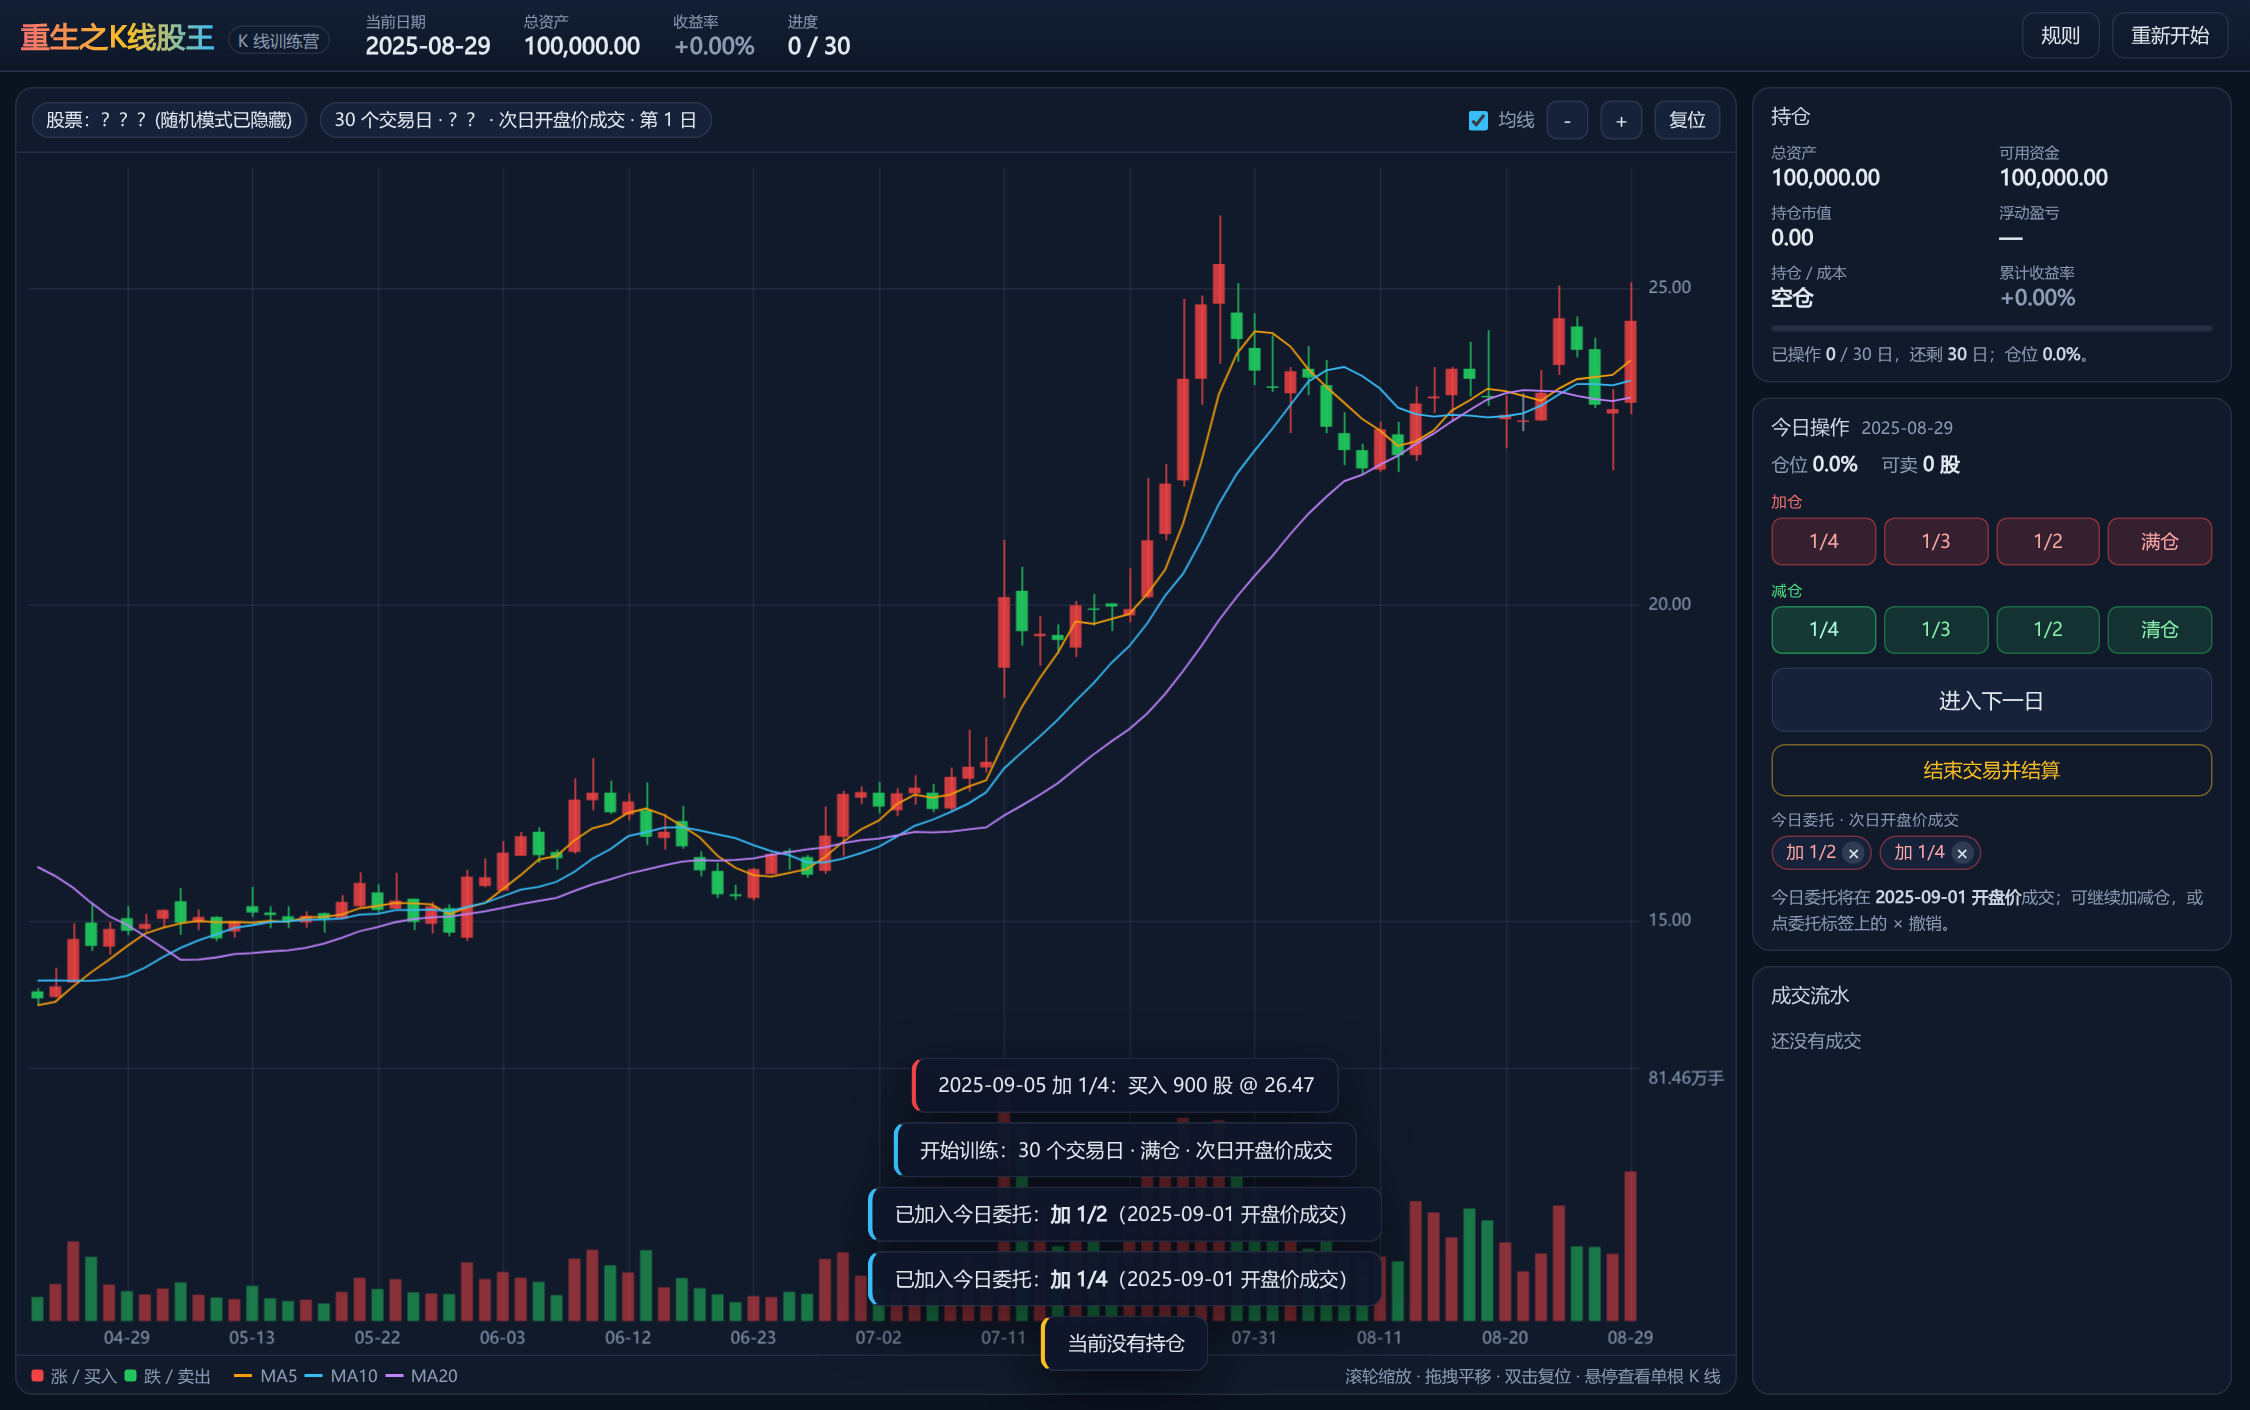
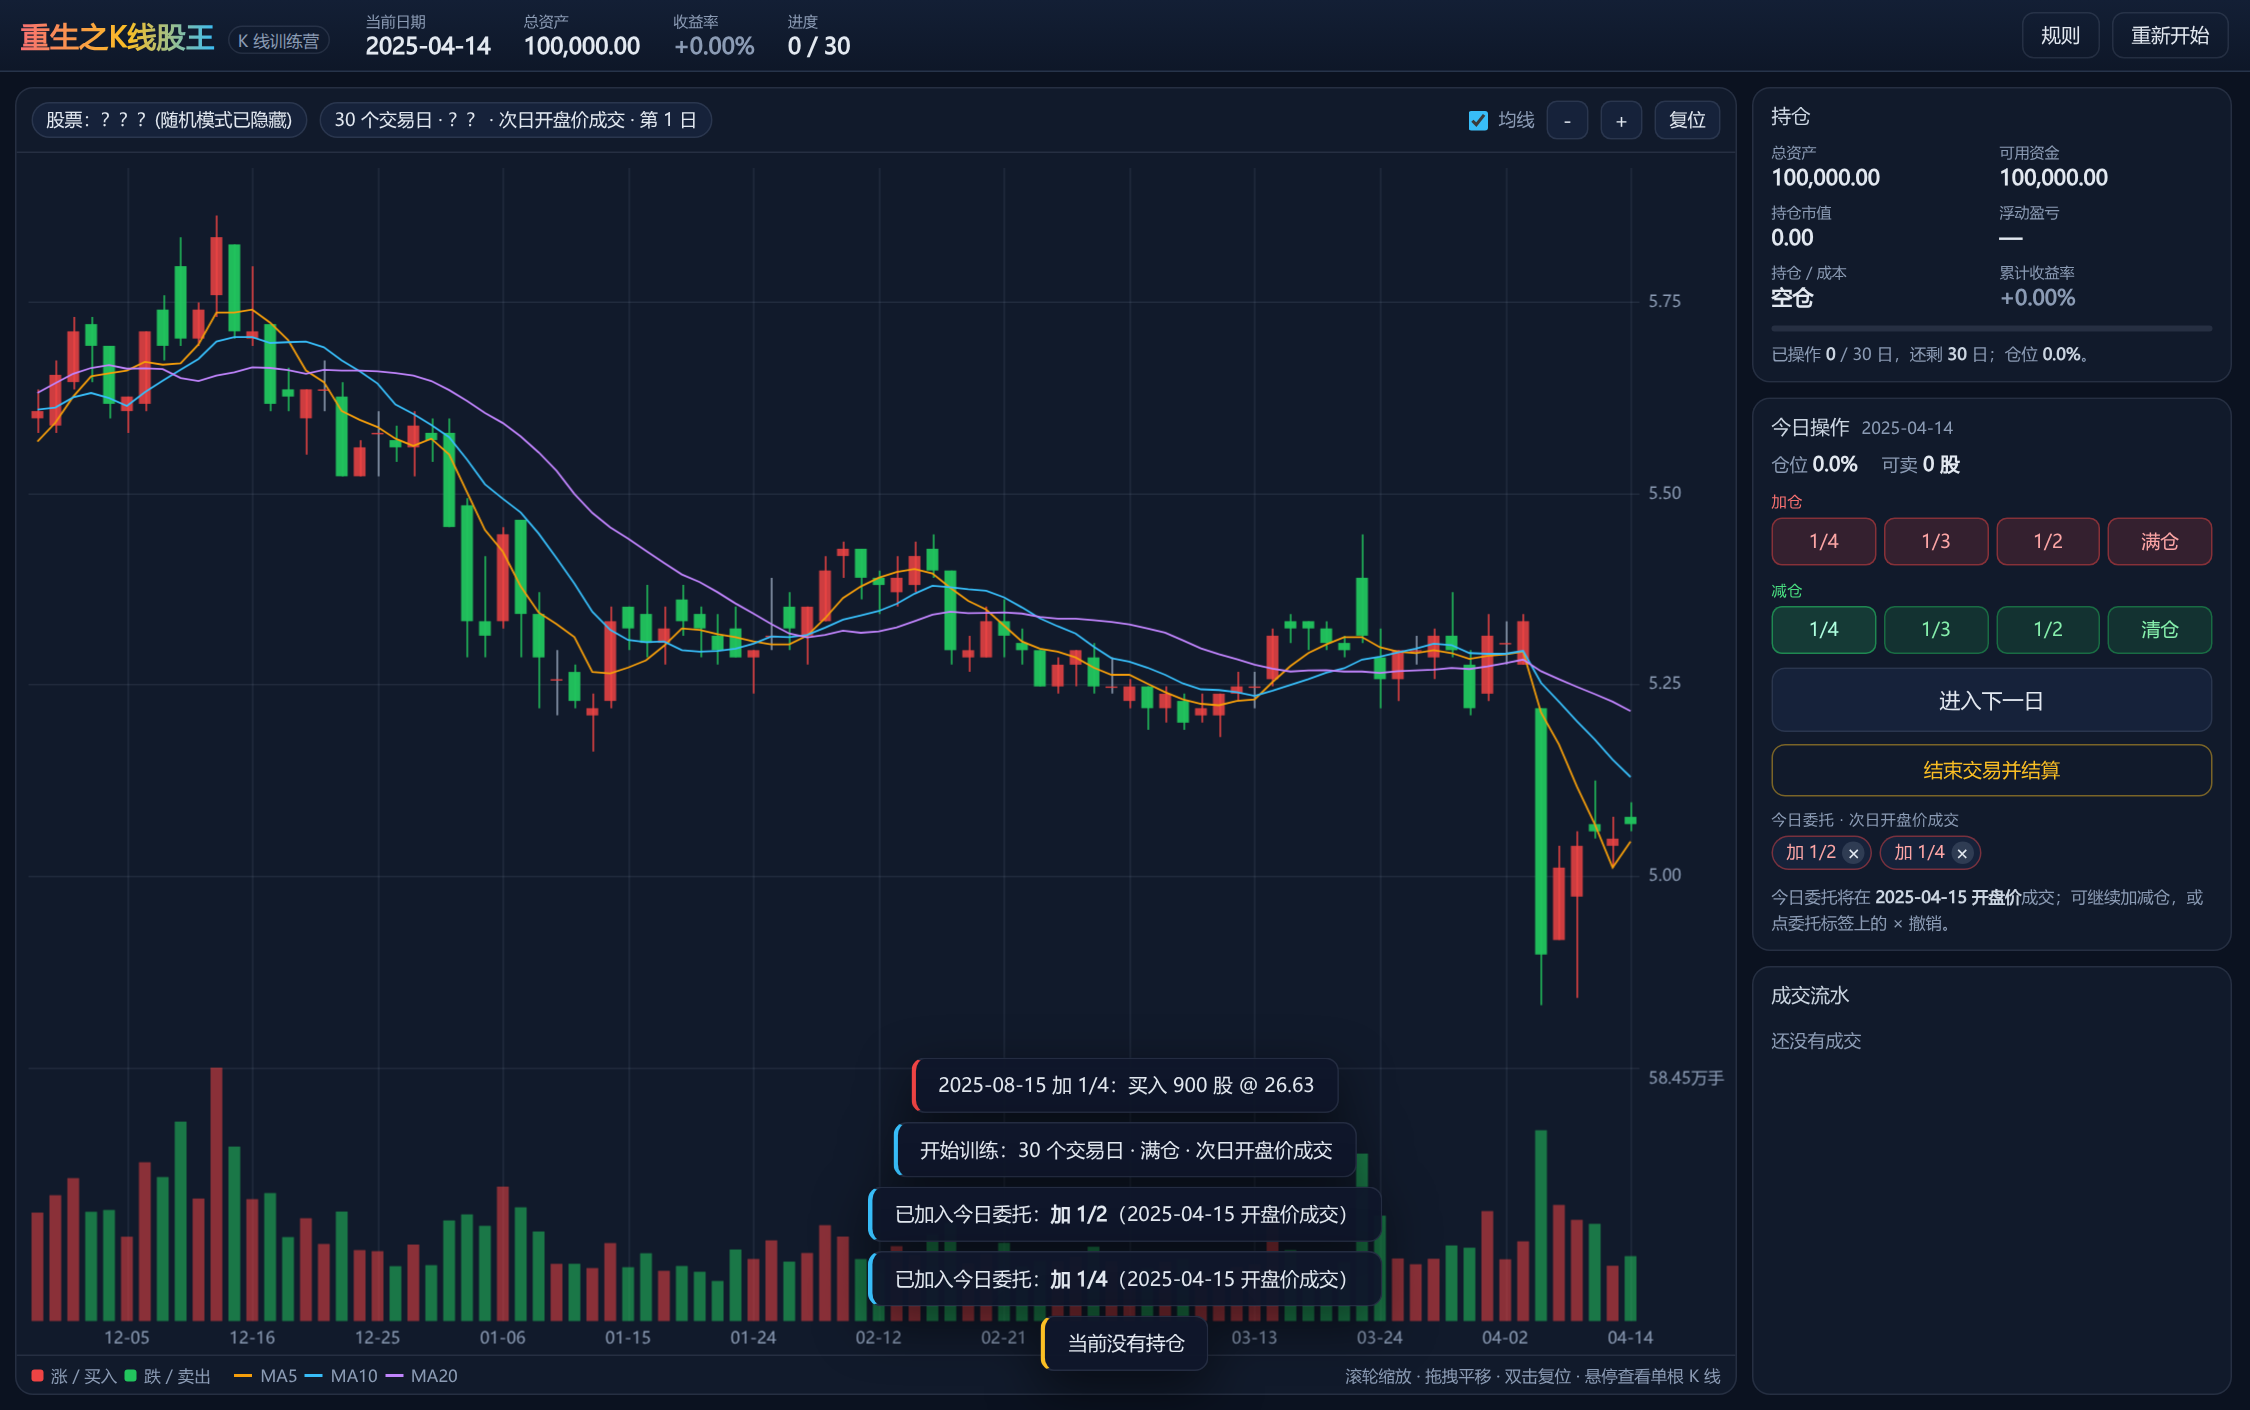
docs(ui): 说清结算面板两个对比基准的口径
「同期个股」容易被误读成指数，实际是训练标的本身：
- 本股区间涨跌 收→收：随机日收盘 → 末日收盘（中性参照）
- 满仓持有 次开→收：随机日次日开盘（最早可成交价）→ 末日收盘（与玩家可比）
两者只差一个隔夜跳空。结算面板改为显式标签 + 直接写出起算价与日期，
规则面板与 README 同步补充（含三个实测例子）。

diff --git a/docs/js/app.js b/docs/js/app.js
@@ -410,8 +410,8 @@ function showResult() {
     ['平仓次数', `${r.closes} 次（${r.wins} 胜 ${r.losses} 负）`],
     ['胜率', r.winRate == null ? '—' : (r.winRate * 100).toFixed(0) + '%'],
     ['最大回撤', dd(r.maxDrawdown)],
-    ['同期个股涨跌', dd(r.benchmarkPct)],
-    ['满仓持有收益', dd(r.buyHoldPct)],
+    ['本股区间涨跌 收→收', dd(r.benchmarkPct)],
+    ['满仓持有 次开→收', dd(r.buyHoldPct)],
     ['跑赢满仓持有', dd(r.returnPct - r.buyHoldPct)],
     ['已实现盈亏', `${r.realized >= 0 ? '+' : ''}${money(r.realized)} 元`],
     ['交易费用', money(r.totalFee) + ' 元'],
@@ -420,7 +420,16 @@ function showResult() {
     ['剩余持仓', r.holding ? '有（已折算）' : '无'],
   ];
   $('rs-stats').innerHTML = rows.map(([k, v]) =>
-    `<div><label>${k}</label><b class="${k === '同期个股涨跌' ? cls(r.benchmarkPct) : k === '满仓持有收益' || k === '跑赢满仓持有' ? cls(r.buyHoldPct - r.returnPct > 0 ? -1 : 1) : ''}">${v}</b></div>`).join('');
+    `<div><label>${k}</label><b class="${k.startsWith('本股区间') ? cls(r.benchmarkPct) : k === '满仓持有 次开→收' ? cls(r.buyHoldPct) : k === '跑赢满仓持有' ? cls(r.returnPct - r.buyHoldPct) : ''}">${v}</b></div>`).join('');
+
+  // 把两个基准的起算点写出来，避免“同期个股”被误读成指数
+  const c0 = s.bars.close[s.startIdx], o1 = s.bars.open[Math.min(s.startIdx + 1, s.bars.n - 1)];
+  const c1 = s.price;
+  $('rs-note').innerHTML =
+    `对比基准都是<b>你训练的这只股票本身</b>（前复权、含分红），不是指数。<br>` +
+    `本股区间涨跌：随机日 ${fmtDate(r.startDate)} 收盘 <b>${c0.toFixed(2)}</b> → 末日 ${fmtDate(r.endDate)} 收盘 <b>${c1.toFixed(2)}</b>；<br>` +
+    `满仓持有：次日开盘 <b>${o1.toFixed(2)}</b>（你最早能买到的价格）→ 末日收盘 <b>${c1.toFixed(2)}</b>，` +
+    `两者相差 ${o1 >= c0 ? '+' : ''}${((o1 / c0 - 1) * 100).toFixed(2)}% 的隔夜跳空。`;
   refreshStockLabel();
   show('#modal-result');
 }

diff --git a/docs/index.html b/docs/index.html
@@ -193,6 +193,8 @@
       <li>成交价触及涨停买不进、触及跌停卖不出（主板 ±10%，创业板/科创板 ±20%）。</li>
       <li>操作满 30 / 60 / 90 个交易日后自动结算，剩余持仓按最后一日收盘价折算。</li>
       <li>「结束交易」：尾盘模式按当收即时清仓；次日开盘价模式放弃今日委托、按次日开盘价清仓。</li>
+      <li>结算时的对比基准是<b>你训练的这一只股票本身</b>（不是指数）：
+        「本股区间涨跌」= 随机日收盘 → 末日收盘；「满仓持有」= 次日开盘（你最早能买到的价格）→ 末日收盘。</li>
       <li>已剔除现行 ST 股、上市不足 250 个交易日的次新股、北交所与 B 股。</li>
     </ol>
     <div class="dialog-actions"><button class="primary" id="help-ok">知道了</button></div>
@@ -207,6 +209,7 @@
     <div class="big-return" id="rs-return">—</div>
     <div class="big-sub" id="rs-sub">—</div>
     <div class="stat-grid" id="rs-stats"></div>
+    <div class="hint" id="rs-note"></div>
     <div class="dialog-actions">
       <button class="ghost" id="rs-view">查看 K 线</button>
       <button class="primary" id="rs-again">再来一局</button>

diff --git a/README.md b/README.md
@@ -28,8 +28,25 @@
    **同一天可以连点多次**把仓位调到想要的位置，右侧的持仓、成本、浮盈浮亏实时跟着变；
    定好仓位后点 `进入下一日` 揭示下一根 K 线。图上会留下 `B` / `S` 标记与成本线。
 4. **结束**：点`结束交易并结算`或走满窗口自动结算，
-   结算面板用大号数字突出**最终收益率**，并给出胜率、最大回撤、同期个股涨跌幅、
-   **满仓持有收益**（用同样的首个可成交价买入并持有）与跑赢幅度。
+   结算面板用大号数字突出**最终收益率**，并给出胜率、最大回撤与两个对比基准。
+
+### 结算面板里的对比基准是什么
+
+两个基准用的都是**你训练的这只股票本身**（前复权价，因此比率等于含分红再投的真实区间收益），**不是指数**：
+
+| 指标 | 起算价 | 结束价 | 用途 |
+|---|---|---|---|
+| **本股区间涨跌**（收→收） | 随机日期**收盘价**（你看到的第一天，此时还不能交易） | 最后一日收盘价 | 中性参照：这段行情本身涨跌了多少 |
+| **满仓持有**（次开→收） | 随机日期**次日开盘价**（你最早能买到的价格） | 最后一日收盘价 | 与你的收益率 apples-to-apples 的基准 |
+| **跑赢满仓持有** | — | — | 你的收益率 − 满仓持有收益 |
+
+两者只差**一个隔夜跳空**（随机日收盘 → 次日开盘）。实测例：
+
+| 股票 | 随机日收盘 | 次日开盘 | 末日收盘 | 本股区间涨跌 | 满仓持有 |
+|---|---|---|---|---|---|
+| 博腾股份 300363 | 17.11 | 17.03 | 23.72 | +38.65% | +39.30% |
+| 贵州茅台 600519 | 1378.35 | 1382.56 | 1369.59 | −0.64% | −0.94% |
+| 平安银行 000001 | 10.13 | 10.13 | 10.76 | +6.17% | +6.17% |
 
 ### 交易规则（与页面「规则」面板同源）
 
